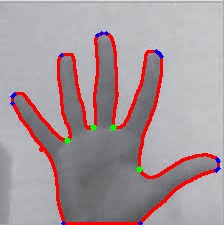
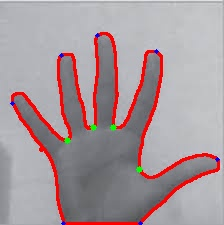
finding ratios between fingers

diff --git a/conversion.py b/conversion.py
@@ -1,7 +1,6 @@
-#Edge detection using Canny method
+ #Edge detection using Canny method
 import cv2
 import numpy as np
-import PIL
 img=cv2.imread("input.jpeg") #read image
 t_lower=50 #lower threshold
 t_upper=150 #upper threshold
@@ -14,8 +13,8 @@ for i in range (0,5):
 for i in range (0,200):
     for k in range (0,6):
         edge[i][-k]=0
-#cv2.imshow('original',img)
-#cv2.imshow('edge',edge)
+# cv2.imshow('original',img)
+# cv2.imshow('edge',edge)
 cv2.imwrite("edge.jpg", edge)
 #print(img)
 #cv2.waitKey(0)
@@ -27,13 +26,13 @@ image_copy = img.copy()
 # draw the contours on a copy of the original image
 cv2.drawContours(image_copy, contours, -1, (0, 0, 255), 2)
 #print(len(contours), "objects were found in this image.")
-duplicate_cnt=contours
+cnt=contours
 cv2.imshow("Edged image", edge)
 cv2.imshow("contours", image_copy)
 cv2.waitKey(0)
 cv2.destroyAllWindows()
 contours = max(contours, key=lambda x: cv2.contourArea(x))
-#print(contours)
+print(contours)
 hull = cv2.convexHull(contours)
 cv2.drawContours(edge, [hull], -1, (255, 0, 0), 2)
 cv2.imwrite("connected.jpg",edge)
@@ -42,8 +41,15 @@ cv2.imshow("hull", edge)
 points_want= hull.reshape(hull.shape[0],2)
 #print(points_want)
 #Trying to draw finger tips on the image
-for i in points_want:
-    cv2.circle(image_copy, center=(i[0], i[1]), radius=2, color=(255, 0, 0), thickness=-1)
+#cv2.circle(image_copy, center=(points_want[0][0], points_want[0][1]), radius=2, color=(255, 0, 0), thickness=-1)
+top_point=[]
+for i in range(0,len(points_want)):
+    
+    if np.abs(points_want[i][0] - points_want[i-1][0]) >= 10 or np.abs(points_want[i][1] - points_want[i-1][1])>=10:
+        top_point.append(list(points_want[i]))
+        cv2.circle(image_copy, center=(points_want[i][0], points_want[i][1]), radius=2, color=(255, 0, 0), thickness=-1)
+#cv2.circle(image_copy, center=(points_want[9][0], points_want[9][1]), radius=2, color=(255, 0, 0), thickness=-1)
+#print(finalpoint)
 cv2.imwrite("fingertips.jpg",image_copy)
 cv2.imshow("wanted", image_copy)
 cv2.waitKey(0)
@@ -52,11 +58,13 @@ cv2.destroyAllWindows()
 hull = cv2.convexHull(contours, returnPoints=False)
 defects = cv2.convexityDefects(contours, hull)
 #print("The defects are ")
-#hprint(defects)
+#print(defects)
 if defects is not None:
     cnt = 0
     size=[]
-    for i in range(defects.shape[0]):  # calculate the angle
+    bottom_points=[]
+    for i in range(defects.shape[0]): 
+        # calculate the angle
         s, e, f, d = defects[i][0]
         start = tuple(contours[s][0])
         end = tuple(contours[e][0])
@@ -70,14 +78,78 @@ if defects is not None:
             size.append(b)
             size.append(c)
             cv2.circle(image_copy, far, 3, [0, 255, 0], -1)
+            bottom_points.append(list(far))
         if cnt > 0:
             cnt = cnt+1
         #cv2.putText(image_copy, str(cnt), (0, 50), cv2.FONT_HERSHEY_SIMPLEX,1, (255, 0, 0) , 2, cv2.LINE_AA)
         #(start index,end index,farthestpoint,approximate distance to farthest point)
 
-print("The length of the fingers are ")
-print(size)
+#print("The length of the fingers are ")
+#print(size, cnt)
+for i in  range(1,len(top_point)): #eleiminating unnecessary point
+    if top_point[i-1][1]==top_point[i][1] and np.abs(top_point[i-1][0]-top_point[i][0])>=5:
+        top_point.remove(top_point[i])
+        top_point.remove(top_point[i-1])
+        break  
+print(top_point)
+print(len(top_point))
+print(bottom_points)
+print(len(bottom_points))
 cv2.imwrite("defects.jpg",image_copy)
 cv2.imshow("img", image_copy)
 cv2.waitKey(0)
 cv2.destroyAllWindows()
+for i in top_point:
+    cv2.circle(image_copy,(i[0],i[1]),3,[0, 255,255],-1)
+cv2.imshow("check",image_copy)
+cv2.waitKey(0)
+cv2.destroyAllWindows()
+# bottom_point anticlockwise 
+# top_point clockwise
+line=cv2.line(image_copy,bottom_points[0],top_point[4],[0,214,23],1)
+cv2.imwrite("line.jpg",line)
+cv2.imshow("line",image_copy)
+cv2.waitKey(0)
+cv2.destroyAllWindows()
+length=[]
+#proper length calculation
+for i in range(4):#bottom
+    mini=2000
+    for k in range(5):#top
+        d=np.sqrt(((bottom_points[i][1]-top_point[k][1])**2)+((bottom_points[i][0]-top_point[k][0])**2))
+        if d<mini:
+            mini=d
+    length.append(mini)
+d=np.sqrt(((bottom_points[0][1]-top_point[4][1])**2)+((bottom_points[0][0]-top_point[4][0])**2))
+length.append(d)
+print("The finger lengths are")
+print(length)
+T =top_point#[[156, 51], [217, 159], [12, 103], [61, 55], [97, 35]]
+T.sort(reverse=True)
+#print(T)
+B = bottom_points#[[93, 127], [67, 140], [139, 169], [113, 127]]
+B.sort(reverse=True)
+#print(B)
+L =[]
+for i in range(4):
+    l = np.sqrt((T[i][0]-B[i][0])**2 + (T[i][1]-B[i][1])**2) 
+    L.append(l)
+l= np.sqrt((T[4][0]-B[3][0])**2 + (T[4][1]-B[3][1])**2)
+L.append(l)
+
+print("Length of Fingers:")
+print("Thumb-->", L[0])
+print("Index-->", L[1])
+print("Middle-->", L[2])
+print("Ring-->", L[3])
+print("Little-->", L[4])   
+print("2D:4D Digit Ratio:", (L[1]/L[3]))
+## Finding the ratio of fingers with longest length
+longest= max(L)
+print(longest)
+print("Ratio between fingers and the longest finger length:")
+print("Thumb-->", L[0]/longest)
+print("Index-->", L[1]/longest)
+print("Middle-->", L[2]/longest)
+print("Ring-->", L[3]/longest)
+print("Little-->", L[4]/longest)   
